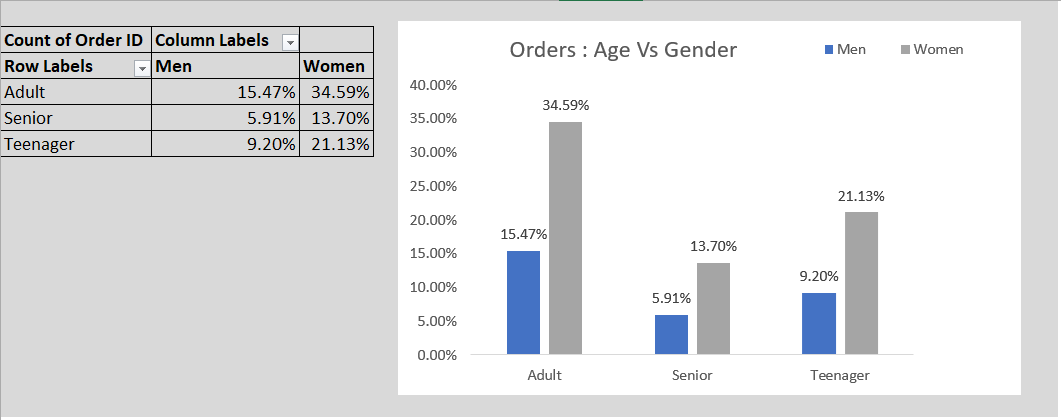
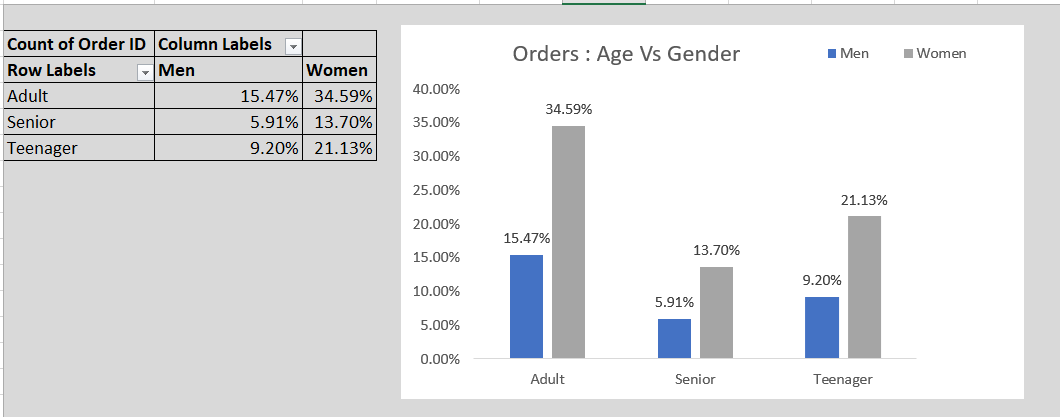
Fixed README image rendering

diff --git a/README.md b/README.md
@@ -79,13 +79,13 @@ The dataset contains retail transaction records including:
 
 ## Dashboard Overview
 
-![Dashboard Overview](Dashboard_Screenshots/Dashboard_Overview.png)
+![Dashboard Overview](Dashboard_Screenshots/Dashboard_Overview.PNG)
 
 ---
 
 ## Monthly Sales & Order Performance
 
-![Sales Trend Analysis](Dashboard_Screenshots/Sales_Trend_Analysis.png)
+![Sales Trend Analysis](Dashboard_Screenshots/Sales_Trend_Analysis.PNG)
 
 ---
 
@@ -97,7 +97,7 @@ The dataset contains retail transaction records including:
 
 ## Top Performing States by Revenue
 
-![Top States Analysis](Dashboard_Screenshots/Top_States_Analysis.png)
+![Top States Analysis](Dashboard_Screenshots/Top_States_Analysis.PNG)
 
 ---
 
@@ -109,7 +109,7 @@ The dataset contains retail transaction records including:
 
 ## Sales Performance by Channels
 
-![Sales Channel Analysis](Dashboard_Screenshots/Sales_Channel_Analysis.png)
+![Sales Channel Analysis](Dashboard_Screenshots/Sales_Channel_Analysis.PNG)
 
 ---
 